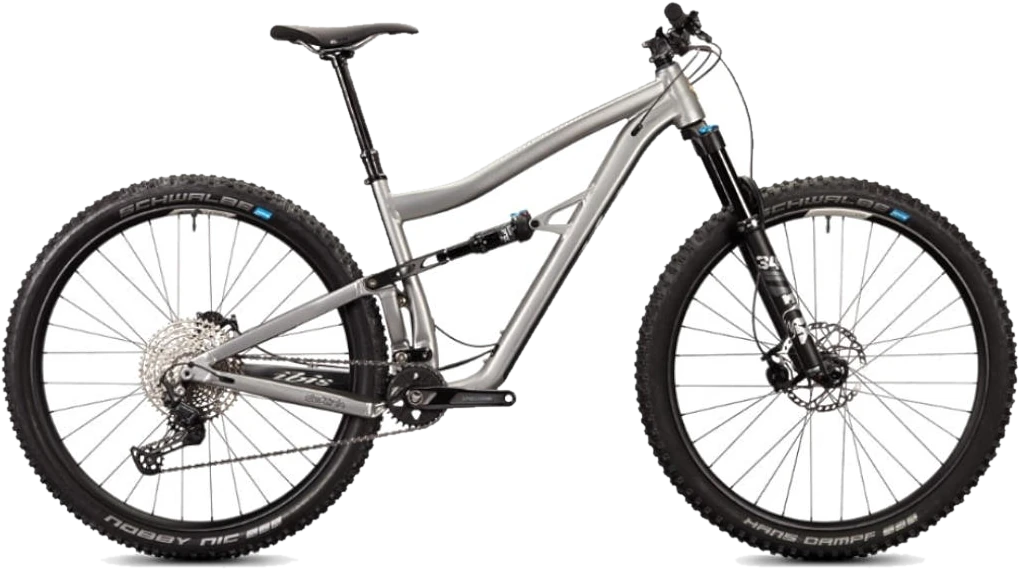
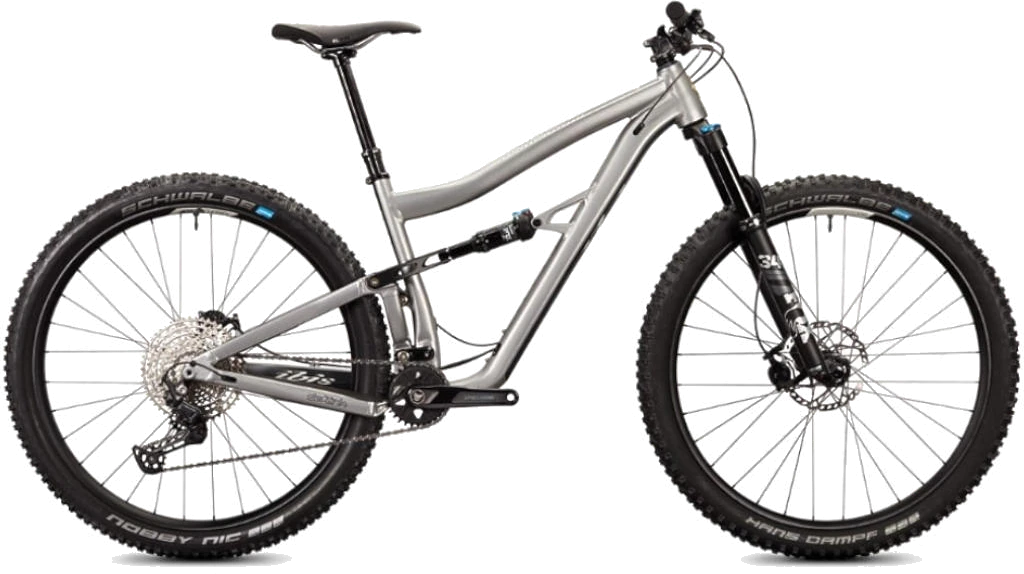
Remove white background from inside product cut-outs
The cut-out script now also clears enclosed white areas (frame triangles,
gaps between spokes) and un-whitens edge pixels so spokes keep no halo.
Tyre lettering and logos are kept. The balance bike (1391) is white on
white, so its cut-out was made with rembg and the script skips it.

Claude-Session: https://claude.ai/code/session_015aqGLqTujFBgtvfU6icChj

Changed region(s): [[0.0, 0.0, 0.7294, 1.0], [0.6078, 0.2386, 1.0, 1.0], [0.6078, 0.686, 0.6382, 0.7754]]

diff --git a/scripts/make_cutouts.py b/scripts/make_cutouts.py
@@ -3,68 +3,140 @@
 Usage: python3 scripts/make_cutouts.py content
 
 For every product in content/products.json whose main image has white corners,
-the white area connected to the image border is made transparent and saved to
+the white background is made transparent and saved to
 content/images/cutouts/<productId>.webp. Photos taken in the shop (non-white
 background) are skipped; the site shows those as framed photo cards instead.
+
+Background is:
+  1. near-white area connected to the image border, and
+  2. enclosed near-white "holes" (inside frame triangles, between spokes) that
+     are flat white and big enough not to be a logo or a highlight.
+Edge pixels next to the background get a soft alpha and are "un-whitened",
+so thin parts such as spokes keep no white halo.
 """
 import json
 import os
 import sys
 from collections import deque
 
-from PIL import Image, ImageFilter
+import numpy as np
+from PIL import Image
 
 ROOT = sys.argv[1] if len(sys.argv) > 1 else "content"
 OUT = os.path.join(ROOT, "images", "cutouts")
-THRESHOLD = 238  # a pixel counts as background if R, G and B are all above this
+BG_MIN = 252        # a pixel is "near white" if R, G and B are all at least this
+HOLE_MIN = 252      # enclosed holes must be flatter / whiter than this ...
+HOLE_SAT = 8        # ... with max-min channel spread at most this
+HOLE_AREA = 60      # ... and at least this many pixels (skips logos, highlights)
+HOLE_FLAT = 0.9     # share of a hole's pixels that must pass HOLE_MIN
+# second pass for small JPEG-greyed gaps where spokes meet the hub
+GAP_MIN = 232       # pixels at least this white ...
+GAP_AREA = 6        # ... in an enclosed patch of at least this many pixels, next to background
+GAP_MEAN = 244      # ... whose average whiteness is at least this
+GAP_SAT = 10        # ... and average channel spread at most this
+EDGE_LO = 200       # edge alpha ramp: min channel >= 255 -> clear, <= EDGE_LO -> solid
+
+# Cut-outs made by hand (or with an AI tool) because the product itself is white
+# and touches the white background; the colour method cannot separate them.
+# 1391: made with rembg (birefnet-general model). The script leaves these alone.
+MANUAL = {"1391"}
 
 os.makedirs(OUT, exist_ok=True)
 products = json.load(open(os.path.join(ROOT, "products.json"), encoding="utf-8"))
 
 
-def is_bg(px):
-    return px[0] >= THRESHOLD and px[1] >= THRESHOLD and px[2] >= THRESHOLD
+def components(mask):
+    """Label 4-connected components of a boolean mask. Yields index arrays."""
+    h, w = mask.shape
+    seen = np.zeros_like(mask)
+    flat = mask.ravel()
+    seen_f = seen.ravel()
+    for start in np.flatnonzero(flat):
+        if seen_f[start]:
+            continue
+        seen_f[start] = True
+        q = deque([start])
+        comp = []
+        while q:
+            i = q.popleft()
+            comp.append(i)
+            y, x = divmod(i, w)
+            for j, ok in ((i - 1, x > 0), (i + 1, x < w - 1), (i - w, y > 0), (i + w, y < h - 1)):
+                if ok and flat[j] and not seen_f[j]:
+                    seen_f[j] = True
+                    q.append(j)
+        yield np.array(comp)
+
+
+def dilate(mask, r):
+    out = mask.copy()
+    for dy in range(-r, r + 1):
+        for dx in range(-r, r + 1):
+            out |= np.roll(np.roll(mask, dy, 0), dx, 1)
+    return out
 
 
 for p in products:
+    if str(p["id"]) in MANUAL:
+        print(f"keep {p['id']} (manual cut-out)")
+        continue
     src = os.path.join(ROOT, p["images"][0]["local"])
     im = Image.open(src).convert("RGB")
-    w, h = im.size
-    corners = [im.getpixel(c) for c in [(2, 2), (w - 3, 2), (2, h - 3), (w - 3, h - 3)]]
-    if not all(min(c) >= 250 for c in corners):
+    a = np.asarray(im).astype(np.int16)
+    h, w, _ = a.shape
+    corners = [a[2, 2], a[2, w - 3], a[h - 3, 2], a[h - 3, w - 3]]
+    if not all(c.min() >= 250 for c in corners):
         print(f"skip {p['id']} (not a studio shot)")
         continue
 
-    px = im.load()
-    mask = Image.new("L", (w, h), 255)
-    m = mask.load()
-    seen = bytearray(w * h)
-    q = deque()
-    for x in range(w):
-        q.append((x, 0)); q.append((x, h - 1))
-    for y in range(h):
-        q.append((0, y)); q.append((w - 1, y))
-    while q:
-        x, y = q.popleft()
-        i = y * w + x
-        if seen[i]:
-            continue
-        seen[i] = 1
-        if not is_bg(px[x, y]):
-            continue
-        m[x, y] = 0
-        if x > 0: q.append((x - 1, y))
-        if x < w - 1: q.append((x + 1, y))
-        if y > 0: q.append((x, y - 1))
-        if y < h - 1: q.append((x, y + 1))
+    lo = a.min(axis=2)
+    spread = a.max(axis=2) - lo
+    near_white = lo >= BG_MIN
+    flat_white = (lo >= HOLE_MIN) & (spread <= HOLE_SAT)
 
-    # soften the edge by one pixel so it does not look jagged
-    mask = mask.filter(ImageFilter.MinFilter(3)).filter(ImageFilter.GaussianBlur(0.8))
-    rgba = im.convert("RGBA")
-    rgba.putalpha(mask)
-    bbox = rgba.getbbox()
+    bg = np.zeros((h, w), bool)
+    holes = 0
+    for comp in components(near_white):
+        ys, xs = np.divmod(comp, w)
+        touches = ys.min() == 0 or xs.min() == 0 or ys.max() == h - 1 or xs.max() == w - 1
+        if touches:
+            bg.ravel()[comp] = True
+        elif len(comp) >= HOLE_AREA and flat_white.ravel()[comp].mean() >= HOLE_FLAT:
+            bg.ravel()[comp] = True
+            holes += 1
+
+    gap_mask = (lo >= GAP_MIN) & ~bg
+    near_bg = dilate(bg, 3).ravel()  # real gaps sit right next to removed background;
+                                     # white tyre lettering is walled in by black rubber
+    lo_f, sp_f = lo.ravel(), spread.ravel()
+    for comp in components(gap_mask):
+        ys, xs = np.divmod(comp, w)
+        if ys.min() == 0 or xs.min() == 0 or ys.max() == h - 1 or xs.max() == w - 1:
+            continue
+        if not near_bg[comp].any():
+            continue
+        if len(comp) >= GAP_AREA and lo_f[comp].mean() >= GAP_MEAN and sp_f[comp].mean() <= GAP_SAT:
+            bg.ravel()[comp] = True
+            holes += 1
+
+    # alpha: 0 on background, soft ramp on pixels bordering it, 1 inside the product
+    alpha = np.ones((h, w), float)
+    alpha[bg] = 0.0
+    edge = dilate(bg, 2) & ~bg
+    ramp = np.clip((255 - lo) / (255 - EDGE_LO), 0, 1)
+    alpha[edge] = np.minimum(alpha[edge], ramp[edge])
+
+    # un-whiten edge colours: c = a*fg + (1-a)*255  ->  fg = (c - (1-a)*255) / a
+    rgb = a.astype(float)
+    m = edge & (alpha > 0.02)
+    am = alpha[m][:, None]
+    rgb[m] = np.clip((rgb[m] - (1 - am) * 255) / am, 0, 255)
+
+    rgba = np.dstack([rgb, alpha * 255]).round().astype(np.uint8)
+    out = Image.fromarray(rgba, "RGBA")
+    bbox = out.getbbox()
     if bbox:
-        rgba = rgba.crop(bbox)
+        out = out.crop(bbox)
     dest = os.path.join(OUT, f"{p['id']}.webp")
-    rgba.save(dest, "WEBP", quality=90, method=6)
-    print(f"cutout {p['id']} -> {dest} {rgba.size}")
+    out.save(dest, "WEBP", quality=90, method=6, exact=True)
+    print(f"cutout {p['id']} -> {dest} {out.size} ({holes} enclosed holes removed)")
